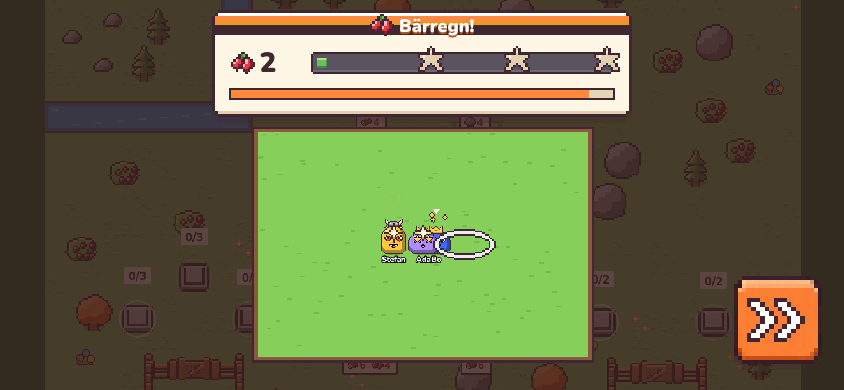
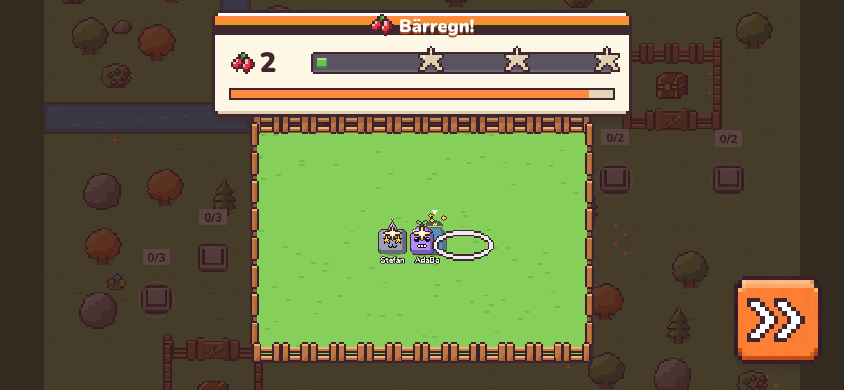
feat(mini): Bärregn polish with placeholders: fence, blinking bombs, berry splat, stun flicker, hurry timer
Claude-Session: https://claude.ai/code/session_019PjhQvNgzNv3LAiBBHLhoY

diff --git a/blobz/src/game.ts b/blobz/src/game.ts
@@ -98,6 +98,7 @@ export class GameScene extends Phaser.Scene {
   private dB = 0;
   private miniCenterY = 0;
   private miniG?: Phaser.GameObjects.Graphics;
+  private miniDeco: Phaser.GameObjects.GameObject[] = [];
   private drops = new Map<number, { item: Phaser.GameObjects.Image; mark: Phaser.GameObjects.Image | Phaser.GameObjects.Ellipse }>();
   private bgfx = new Map<BuildKind, { img: Phaser.GameObjects.Image; built: boolean }>();
   private cottageImg!: Phaser.GameObjects.Image;
@@ -127,7 +128,7 @@ export class GameScene extends Phaser.Scene {
   init(data: { session: Session }) {
     this.s = data.session;
     this.registry.set('biome', this.s.biome ?? 'meadow'); // read by the dungeon entrance (snowy cave)
-    this.blobs.clear(); this.items.clear(); this.gems.clear(); this.powers.clear(); this.drops.clear(); this.dB = 0; this.miniG = undefined;
+    this.blobs.clear(); this.items.clear(); this.gems.clear(); this.powers.clear(); this.drops.clear(); this.dB = 0; this.miniG = undefined; this.miniDeco = [];
     this.lastView = null;
     this.lastClock = 0;
   }
@@ -661,10 +662,21 @@ export class GameScene extends Phaser.Scene {
       const r = rng(7);
       for (let i = 0; i < 90; i++) g.fillStyle(this.s.biome === 'snow' ? 0xcfe1ee : 0x6fbd47, 1).fillRect(a.x0 + r() * (a.x1 - a.x0 - 8), a.y0 + r() * (a.y1 - a.y0 - 4), 8, 3);
       this.miniG = g;
+      // a wooden fence around the field (the puzzle-pen fence art): planks on top/bottom, posts on the sides
+      const S = 3, n = Math.round((a.x1 - a.x0) / (16 * S)), tw = (a.x1 - a.x0 + 12) / n;
+      for (const y of [a.y0 + 2, a.y1 + 10]) for (let k = 0; k < n; k++) {
+        this.miniDeco.push(this.add.image(a.x0 - 6 + tw * (k + 0.5), y, 'pr-fence').setOrigin(0.5, 1).setDisplaySize(tw + 1, 12 * S).setDepth(y === a.y0 + 2 ? 9050 : 10000 + a.y1 + 20));
+      }
+      for (const x of [a.x0 - 4, a.x1 + 4]) for (let y = a.y0 + 24; y <= a.y1; y += 48) {
+        this.miniDeco.push(this.add.image(x, y, 'pr-gate-post').setOrigin(0.5, 1).setScale(S).setDepth(10000 + y));
+      }
       this.trailG.setDepth(9500);
       this.fitCamera();
     } else if (!on && this.miniG) {
       this.miniG.destroy(); this.miniG = undefined;
+      for (const o of this.miniDeco) o.destroy();
+      this.miniDeco = [];
+      for (const b of this.blobs.values()) b.body.setAlpha(1);
       this.trailG.setDepth(-400);
       for (const d of this.drops.values()) { d.item.destroy(); d.mark.destroy(); }
       this.drops.clear();
@@ -686,6 +698,11 @@ export class GameScene extends Phaser.Scene {
       }
       const k = 1 - d.z / DROP_HEIGHT; // 0 when it appears, 1 when it lands
       e.item.setPosition(d.x, d.y - d.z - 6);
+      if (d.kind === 'bomb') {
+        // blinks red, faster the closer it gets to the ground
+        const hz = 2 + 10 * k;
+        e.item.setTint(Math.floor(this.time.now / 1000 * hz) % 2 ? 0xd2342c : 0x2e2a3a).setAngle(Math.sin(this.time.now / 90) * 8);
+      } else e.item.setAngle(Math.sin(this.time.now / 160 + d.id) * 12);
       if (e.mark instanceof Phaser.GameObjects.Ellipse) e.mark.setScale(0.5 + 0.5 * k).setAlpha(0.2 + 0.5 * k);
       else e.mark.setAlpha(0.25 + 0.7 * k);
     }
@@ -805,7 +822,10 @@ export class GameScene extends Phaser.Scene {
       const t = this.add.text(f.x, f.y - 40, '+1', { fontFamily: "'Nunito', sans-serif", fontSize: '24px', color: '#ffe08a', fontStyle: 'bold', stroke: '#6b4a2a', strokeThickness: 5 }).setOrigin(0.5).setDepth(20000);
       this.tweens.add({ targets: t, y: f.y - 80, alpha: 0, duration: 700, onComplete: () => t.destroy() });
     } else if (f.t === 'miss') {
-      this.burst(f.x, f.y, 0xc0392b, 5);
+      // the berry splats flat on the grass and fades
+      const sq = this.add.image(f.x, f.y - 2, 'g-item-berries').setScale(3).setDepth(9200);
+      this.tweens.add({ targets: sq, scaleY: 0.8, scaleX: 3.8, alpha: 0, duration: 520, ease: 'Quad.Out', onComplete: () => sq.destroy() });
+      this.burst(f.x, f.y, 0xc0392b, 4);
     } else if (f.t === 'boom') {
       sfx.bump();
       const w = this.add.sprite(f.x, f.y, 'mini-wave', 0).setDisplaySize(BOMB_R * 2.2, BOMB_R * 1.1).setDepth(20000);
@@ -818,7 +838,8 @@ export class GameScene extends Phaser.Scene {
         const st = this.add.sprite(b.x, b.y - 46, 'mini-ko', 0).setScale(2).setDepth(20001);
         st.play('mini-ko');
         const follow = this.time.addEvent({ delay: 16, loop: true, callback: () => st.setPosition(b.x, b.y - 46) });
-        this.time.delayedCall(1000, () => { follow.remove(); st.destroy(); });
+        const blink = this.tweens.add({ targets: b.body, alpha: 0.45, duration: 110, yoyo: true, repeat: -1 });
+        this.time.delayedCall(1000, () => { follow.remove(); st.destroy(); blink.remove(); b.body.setAlpha(1); });
       }
     } else if (f.t === 'build') {
       // the new building pops up at its spot with a dust cloud (the cottage: on the base)

diff --git a/blobz/src/main.ts b/blobz/src/main.ts
@@ -432,7 +432,12 @@ function renderMini(v: View) {
   if (!m) { miniStarsShown = 0; return; }
   controls.setTool(null);
   const c = String(m.caught);
-  if ($('mini-caught').textContent !== c) $('mini-caught').textContent = c;
+  if ($('mini-caught').textContent !== c) {
+    $('mini-caught').textContent = c;
+    // the basket hops on every catch (restart the CSS animation)
+    const bk = document.querySelector<HTMLElement>('#mini-hud .mbasket')!;
+    bk.classList.remove('hop'); void bk.offsetWidth; bk.classList.add('hop');
+  }
   const top = m.goal[2] || 1;
   $('mini-fill').style.clipPath = `inset(0 ${100 - Math.min(100, (m.caught / top) * 100)}% 0 0)`;
   document.querySelectorAll<HTMLImageElement>('#mini-hud .mstar').forEach((im) => {
@@ -444,6 +449,7 @@ function renderMini(v: View) {
   const stars = m.goal.filter((g) => m.caught >= g).length;
   if (stars > miniStarsShown) { miniStarsShown = stars; sfx.star(); }
   $('mini-time').style.width = `${(m.t / 40) * 100}%`;
+  $('mini-hud').classList.toggle('hurry', m.t <= 10);
 }
 
 /** True from startScene until the first rendered frame. On "Spela igen" the assets are cached, so Phaser

diff --git a/blobz/src/style.css b/blobz/src/style.css
@@ -611,3 +611,9 @@ html { -webkit-text-size-adjust: 100%; text-size-adjust: 100%; }
   .bcost .c { font-size: 13px; }
   .bcost .c img { height: 12px; }
 }
+
+/* Bärregn polish: the basket hops on a catch, the time bar turns red and pulses in the last 10 s */
+.mbasket.hop { animation: mhop 0.28s ease-out; }
+@keyframes mhop { 0% { transform: scale(1); } 40% { transform: scale(1.3) translateY(-3px); } 100% { transform: scale(1); } }
+#mini-hud.hurry #mini-time { background: #d2342c; animation: mhurry 0.5s ease-in-out infinite alternate; }
+@keyframes mhurry { from { opacity: 1; } to { opacity: 0.55; } }
